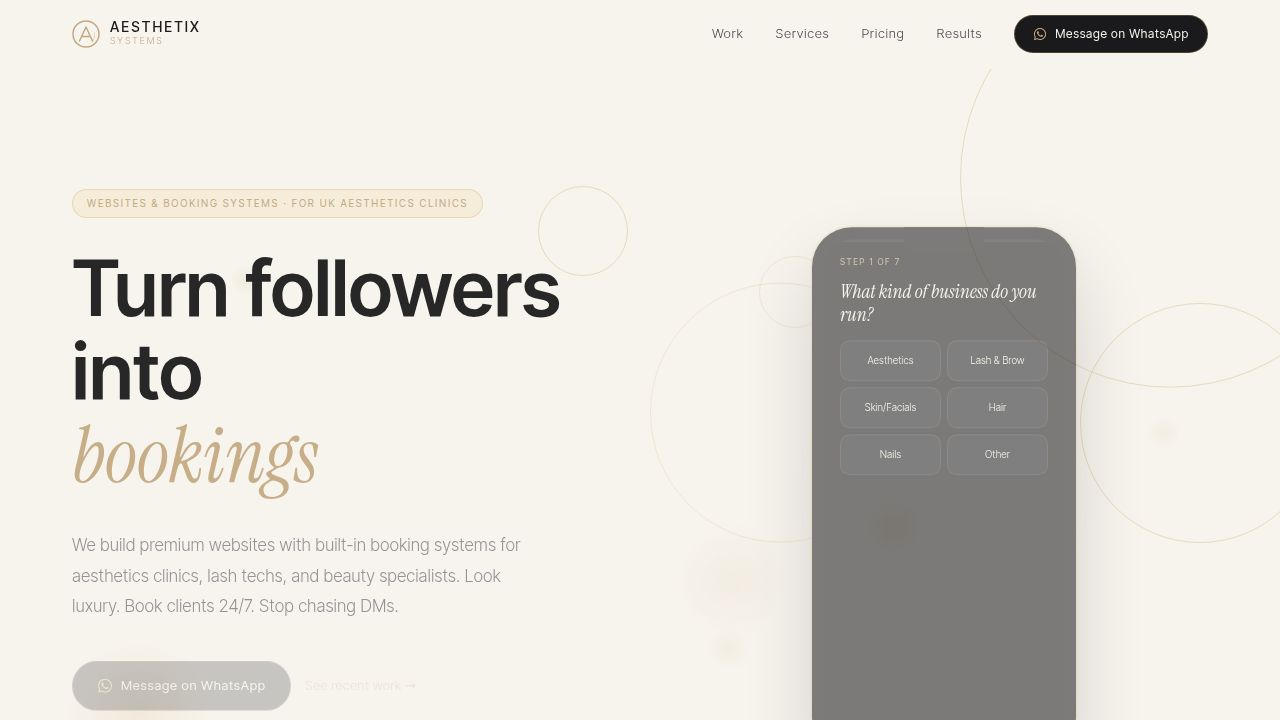
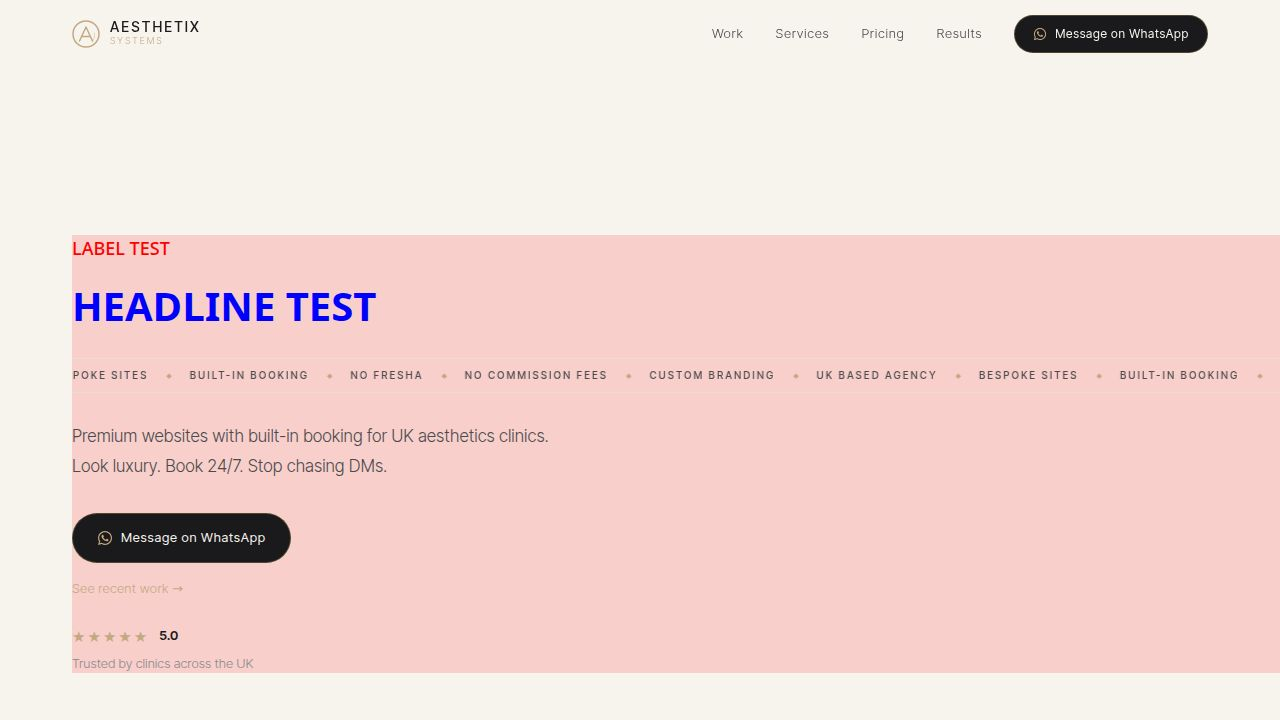
Update the hero section to fix mobile rendering and improve desktop layout
Refactor the Hero component to use separate mobile (block layout) and desktop (grid layout) rendering paths, and update CSS for improved styling and responsiveness.

Replit-Commit-Author: Agent
Replit-Commit-Session-Id: 2e30ccf7-1f1b-4fd5-824b-6b3b71900477
Replit-Commit-Checkpoint-Type: full_checkpoint
Replit-Commit-Event-Id: 9ea8dafe-753b-495b-a765-743d3a32aed4
Replit-Commit-Screenshot-Url: https://storage.googleapis.com/screenshot-production-us-central1/52372a35-586d-48e5-8519-69f121e412d8/2e30ccf7-1f1b-4fd5-824b-6b3b71900477/tItvzGl
Replit-Helium-Checkpoint-Created: true

diff --git a/artifacts/aesthetix/src/pages/Home.tsx b/artifacts/aesthetix/src/pages/Home.tsx
@@ -592,122 +592,136 @@ function HeroTicker() {
 
 function Hero() {
   const isMobile = useIsMobile();
-  return (
-    <section style={{ background: cream, padding: isMobile ? '28px 0 0' : '120px 0 80px', position: 'relative', overflow: 'hidden' }}>
-      {/* Floating circle vectors */}
-      {[
-        { size: 420, top: '-100px', right: '-100px', y: [0, -22, 0], dur: 9, delay: 0, fill: false },
-        { size: 240, top: '30%', right: '-40px', y: [0, -14, 0], dur: 12, delay: 1.8, fill: false },
-        { size: 150, bottom: '8%', left: '5%', y: [0, -18, 0], dur: 10, delay: 0.6, fill: true },
-        { size: 90, top: '15%', left: '42%', y: [0, -12, 0], dur: 7.5, delay: 2.2, fill: false },
-        { size: 56, top: '55%', right: '28%', y: [0, -10, 0], dur: 8.5, delay: 1.2, fill: true },
-        { size: 32, top: '25%', left: '18%', y: [0, -8, 0], dur: 6.5, delay: 3, fill: true },
-      ].map((c, i) => (
-        <motion.div
-          key={i}
-          animate={{ y: c.y }}
-          transition={{ duration: c.dur, delay: c.delay, repeat: Infinity, ease: 'easeInOut' }}
-          style={{
-            position: 'absolute',
-            width: c.size,
-            height: c.size,
-            borderRadius: '50%',
-            border: c.fill ? 'none' : `1.5px solid rgba(201,169,97,0.35)`,
-            background: c.fill ? `radial-gradient(circle, rgba(201,169,97,0.13) 0%, transparent 72%)` : 'transparent',
-            top: (c as any).top,
-            right: (c as any).right,
-            bottom: (c as any).bottom,
-            left: (c as any).left,
-            pointerEvents: 'none',
-            zIndex: -1,
-          }}
-        />
-      ))}
-      <div style={{ maxWidth: 1200, margin: '0 auto', padding: isMobile ? '0 24px' : '0 32px', display: 'grid', gridTemplateColumns: isMobile ? '1fr' : '1fr 1fr', gap: isMobile ? 20 : 80, alignItems: 'center', position: 'relative', zIndex: 1 }}>
-        {/* Left — Copy */}
-        <div style={{ textAlign: isMobile ? 'center' : 'left', display: 'flex', flexDirection: 'column', alignItems: isMobile ? 'center' : 'flex-start', position: 'relative', zIndex: 5 }}>
-          {/* Label */}
-          <div style={{ marginBottom: isMobile ? 20 : 28 }}>
-            <span style={{ fontFamily: BODY, fontWeight: 500, fontSize: isMobile ? 10 : 11, textTransform: 'uppercase' as const, letterSpacing: '0.22em', color: '#8A8A8E' }}>
-              Aesthetics · Lash · Beauty
-            </span>
-          </div>
-          {/* Headline */}
-          <h1 style={{ fontFamily: BODY, fontWeight: 700, fontSize: isMobile ? 'clamp(2.6rem, 10vw, 3.2rem)' : 'clamp(3rem,6vw,5rem)', lineHeight: 1.05, color: '#1A1A1C', margin: isMobile ? '0 0 28px' : '0 0 28px' }}>
+
+  const CIRCLE_BG = [
+    { size: 420, top: '-100px', right: '-100px', y: [0,-22,0], dur: 9,   delay: 0,   fill: false },
+    { size: 240, top: '30%',   right: '-40px',  y: [0,-14,0], dur: 12,  delay: 1.8, fill: false },
+    { size: 150, bottom: '8%', left: '5%',      y: [0,-18,0], dur: 10,  delay: 0.6, fill: true  },
+    { size: 90,  top: '15%',   left: '42%',     y: [0,-12,0], dur: 7.5, delay: 2.2, fill: false },
+    { size: 56,  top: '55%',   right: '28%',    y: [0,-10,0], dur: 8.5, delay: 1.2, fill: true  },
+    { size: 32,  top: '25%',   left: '18%',     y: [0,-8,0],  dur: 6.5, delay: 3,   fill: true  },
+  ] as const;
+
+  /* ── MOBILE layout — no grid, no flex wrapper, plain block ── */
+  if (isMobile) {
+    return (
+      <section style={{ background: cream, paddingTop: 28 }}>
+        <div style={{ padding: '0 24px', textAlign: 'center' }}>
+          <p style={{ fontFamily: BODY, fontWeight: 500, fontSize: 10, textTransform: 'uppercase' as const, letterSpacing: '0.22em', color: inkMute, marginBottom: 20 }}>
+            Aesthetics · Lash · Beauty
+          </p>
+          <h1 style={{ fontFamily: BODY, fontWeight: 700, fontSize: 'clamp(2.6rem, 10vw, 3.2rem)', lineHeight: 1.05, color: charcoal, marginBottom: 28 }}>
             Turn followers<br />
-            <span style={{ fontWeight: 700, color: 'rgba(26,26,28,0.28)' }}>into</span><br />
-            <em style={{ fontFamily: DISP, fontStyle: 'italic', fontWeight: 700, color: '#C4A882', lineHeight: 1.08 }}>bookings.</em>
+            <span style={{ color: 'rgba(26,26,28,0.28)' }}>into</span><br />
+            <em style={{ fontFamily: DISP, fontStyle: 'italic', color: gold, lineHeight: 1.08 }}>bookings.</em>
           </h1>
-          {/* Marquee ticker */}
-          <div style={{ width: '100%', marginBottom: isMobile ? 28 : 28 }}>
-            <HeroTicker />
-          </div>
-          {/* Body */}
-          <p style={{ fontFamily: BODY, fontWeight: 300, fontSize: isMobile ? 15 : 17, color: '#4A4A4E', lineHeight: 1.78, maxWidth: 480, margin: isMobile ? '0 0 32px' : '0 0 32px' }}>
+          <HeroTicker />
+          <p style={{ fontFamily: BODY, fontWeight: 300, fontSize: 15, color: inkSoft, lineHeight: 1.78, marginBottom: 32, marginTop: 28 }}>
             Premium websites with built-in booking for UK aesthetics clinics. Look luxury. Book 24/7. Stop chasing DMs.
           </p>
-          {/* CTAs */}
-          <div style={{ display: 'flex', flexDirection: 'column', gap: 16, alignItems: isMobile ? 'center' : 'flex-start', marginBottom: isMobile ? 32 : 28 }}>
+          <div style={{ display: 'flex', flexDirection: 'column', alignItems: 'center', gap: 16, marginBottom: 32 }}>
             <WaBtn large />
-            <a href="#work" className="gold-underline" style={{ fontFamily: BODY, fontWeight: 300, fontSize: 13, color: '#C4A882', textDecoration: 'none', letterSpacing: '0.02em' }}>
+            <a href="#work" className="gold-underline" style={{ fontFamily: BODY, fontWeight: 300, fontSize: 13, color: gold, textDecoration: 'none', letterSpacing: '0.02em' }}>
               See recent work →
             </a>
           </div>
-          {/* Stars trust row */}
-          <div style={{ display: 'flex', flexDirection: 'column', alignItems: isMobile ? 'center' : 'flex-start', gap: 8 }}>
+          <div style={{ display: 'flex', flexDirection: 'column', alignItems: 'center', gap: 8, marginBottom: 32 }}>
             <div style={{ display: 'flex', alignItems: 'center', gap: 10 }}>
-              <span style={{ color: '#C4A882', fontSize: 15, letterSpacing: 2, lineHeight: 1 }}>★★★★★</span>
-              <span style={{ fontFamily: BODY, fontWeight: 600, fontSize: 13, color: '#1A1A1C' }}>5.0</span>
+              <span style={{ color: gold, fontSize: 15, letterSpacing: 2, lineHeight: 1 }}>★★★★★</span>
+              <span style={{ fontFamily: BODY, fontWeight: 600, fontSize: 13, color: charcoal }}>5.0</span>
             </div>
-            <span style={{ fontFamily: BODY, fontWeight: 300, fontSize: 13, color: '#8A8A8E' }}>Trusted by clinics across the UK</span>
+            <span style={{ fontFamily: BODY, fontWeight: 300, fontSize: 13, color: inkMute }}>Trusted by clinics across the UK</span>
           </div>
         </div>
-        {/* Right — Phone (desktop only, not rendered at all on mobile) */}
-        {!isMobile && (
-          <motion.div initial={{ opacity: 0, y: 30 }} animate={{ opacity: 1, y: 0 }} transition={{ duration: 0.8, delay: 0.5 }}
-            style={{ display: 'flex', justifyContent: 'center', position: 'relative' }}>
-            {[
-              { size: 260, top: '10%',  left: '-30px',  y: [0,-18,0], dur: 10, delay: 0.3,  fill: false },
-              { size: 120, top: '55%',  left: '-10px',  y: [0,-12,0], dur: 8,  delay: 1.6,  fill: true  },
-              { size: 72,  top: '5%',   left: '15%',    y: [0,-10,0], dur: 7,  delay: 2.4,  fill: false },
-              { size: 44,  top: '75%',  left: '5%',     y: [0,-8,0],  dur: 9,  delay: 0.8,  fill: true  },
-              { size: 36,  top: '35%',  right: '5%',    y: [0,-7,0],  dur: 6.5,delay: 3.2,  fill: true  },
-            ].map((c, i) => (
-              <motion.div
-                key={`ph-${i}`}
-                animate={{ y: c.y }}
-                transition={{ duration: c.dur, delay: c.delay, repeat: Infinity, ease: 'easeInOut' }}
-                style={{
-                  position: 'absolute',
-                  width: c.size,
-                  height: c.size,
-                  borderRadius: '50%',
-                  border: c.fill ? 'none' : `1.5px solid rgba(201,169,97,0.32)`,
-                  background: c.fill ? `radial-gradient(circle, rgba(201,169,97,0.14) 0%, transparent 70%)` : 'transparent',
-                  top: (c as any).top,
-                  left: (c as any).left,
-                  right: (c as any).right,
-                  pointerEvents: 'none',
-                  zIndex: 0,
-                }}
-              />
-            ))}
-            <div style={{ position: 'relative', zIndex: 1 }}>
-              <PhoneLeadQuiz />
+        {/* Mobile quiz */}
+        <div style={{ padding: '0 24px', textAlign: 'center' }}>
+          <p style={{ fontFamily: BODY, fontWeight: 700, fontSize: 13, color: gold, letterSpacing: '0.06em', textTransform: 'uppercase' as const, marginBottom: 6 }}>Get your free quote in 60 seconds</p>
+          <p style={{ fontSize: 16, color: gold, lineHeight: 1, marginBottom: 12 }}>↓</p>
+          <PhoneLeadQuiz />
+        </div>
+      </section>
+    );
+  }
+
+  /* ── DESKTOP layout — two-column grid with floating circles ── */
+  return (
+    <section style={{
+      background: cream,
+      padding: '120px 0 80px',
+      position: 'relative',
+      overflow: 'hidden',
+    }}>
+      {CIRCLE_BG.map((c, i) => (
+        <motion.div key={`hc-${i}`}
+          animate={{ y: [...c.y] }}
+          transition={{ duration: c.dur, delay: c.delay, repeat: Infinity, ease: 'easeInOut' }}
+          style={{
+            position: 'absolute', width: c.size, height: c.size, borderRadius: '50%',
+            border: c.fill ? 'none' : `1.5px solid rgba(201,169,97,0.35)`,
+            background: c.fill ? `radial-gradient(circle,rgba(201,169,97,0.13) 0%,transparent 72%)` : 'transparent',
+            top: (c as any).top, right: (c as any).right, bottom: (c as any).bottom, left: (c as any).left,
+            pointerEvents: 'none', zIndex: 0,
+          }}
+        />
+      ))}
+      <div style={{
+        maxWidth: 1200, margin: '0 auto', padding: '0 32px',
+        display: 'grid', gridTemplateColumns: '1fr 1fr', gap: 80,
+        alignItems: 'center', position: 'relative', zIndex: 1,
+      }}>
+        <div style={{ display: 'flex', flexDirection: 'column', alignItems: 'flex-start', textAlign: 'left' }}>
+          <p style={{ fontFamily: BODY, fontWeight: 500, fontSize: 11, textTransform: 'uppercase' as const, letterSpacing: '0.22em', color: inkMute, marginBottom: 28 }}>
+            Aesthetics · Lash · Beauty
+          </p>
+          <h1 style={{ fontFamily: BODY, fontWeight: 700, fontSize: 'clamp(3rem,6vw,5rem)', lineHeight: 1.05, color: charcoal, marginBottom: 28 }}>
+            Turn followers<br />
+            <span style={{ color: 'rgba(26,26,28,0.28)' }}>into</span><br />
+            <em style={{ fontFamily: DISP, fontStyle: 'italic', color: gold, lineHeight: 1.08 }}>bookings.</em>
+          </h1>
+          <div style={{ width: '100%', marginBottom: 28 }}><HeroTicker /></div>
+          <p style={{ fontFamily: BODY, fontWeight: 300, fontSize: 17, color: inkSoft, lineHeight: 1.78, maxWidth: 480, marginBottom: 32 }}>
+            Premium websites with built-in booking for UK aesthetics clinics. Look luxury. Book 24/7. Stop chasing DMs.
+          </p>
+          <div style={{ display: 'flex', flexDirection: 'column', gap: 16, alignItems: 'flex-start', marginBottom: 28 }}>
+            <WaBtn large />
+            <a href="#work" className="gold-underline" style={{ fontFamily: BODY, fontWeight: 300, fontSize: 13, color: gold, textDecoration: 'none', letterSpacing: '0.02em' }}>
+              See recent work →
+            </a>
+          </div>
+          <div style={{ display: 'flex', flexDirection: 'column', alignItems: 'flex-start', gap: 8 }}>
+            <div style={{ display: 'flex', alignItems: 'center', gap: 10 }}>
+              <span style={{ color: gold, fontSize: 15, letterSpacing: 2, lineHeight: 1 }}>★★★★★</span>
+              <span style={{ fontFamily: BODY, fontWeight: 600, fontSize: 13, color: charcoal }}>5.0</span>
             </div>
-          </motion.div>
-        )}
+            <span style={{ fontFamily: BODY, fontWeight: 300, fontSize: 13, color: inkMute }}>Trusted by clinics across the UK</span>
+          </div>
+        </div>
+
+        <motion.div initial={{ opacity: 0, y: 30 }} animate={{ opacity: 1, y: 0 }}
+          transition={{ duration: 0.8, delay: 0.5 }}
+          style={{ display: 'flex', justifyContent: 'center', position: 'relative' }}>
+          {[
+            { size: 260, top: '10%', left: '-30px', y: [0,-18,0], dur: 10, delay: 0.3, fill: false },
+            { size: 120, top: '55%', left: '-10px', y: [0,-12,0], dur: 8,  delay: 1.6, fill: true  },
+            { size: 72,  top: '5%',  left: '15%',  y: [0,-10,0], dur: 7,  delay: 2.4, fill: false },
+            { size: 44,  top: '75%', left: '5%',   y: [0,-8,0],  dur: 9,  delay: 0.8, fill: true  },
+            { size: 36,  top: '35%', right: '5%',  y: [0,-7,0],  dur: 6.5,delay: 3.2, fill: true  },
+          ].map((c, i) => (
+            <motion.div key={`ph-${i}`}
+              animate={{ y: [...c.y] }}
+              transition={{ duration: c.dur, delay: c.delay, repeat: Infinity, ease: 'easeInOut' }}
+              style={{
+                position: 'absolute', width: c.size, height: c.size, borderRadius: '50%',
+                border: c.fill ? 'none' : `1.5px solid rgba(201,169,97,0.32)`,
+                background: c.fill ? `radial-gradient(circle,rgba(201,169,97,0.14) 0%,transparent 70%)` : 'transparent',
+                top: (c as any).top, left: (c as any).left, right: (c as any).right,
+                pointerEvents: 'none', zIndex: 0,
+              }}
+            />
+          ))}
+          <div style={{ position: 'relative', zIndex: 1 }}><PhoneLeadQuiz /></div>
+        </motion.div>
       </div>
-      {/* Mobile — quiz below the copy (plain div, no opacity animation) */}
-      {isMobile && (
-        <div style={{ marginTop: 32, display: 'flex', flexDirection: 'column', alignItems: 'center', gap: 6 }}>
-          <span style={{ fontFamily: BODY, fontWeight: 700, fontSize: 13, color: gold, letterSpacing: '0.06em', textTransform: 'uppercase' }}>Get your free quote in 60 seconds</span>
-          <span style={{ fontSize: 16, color: gold, lineHeight: 1 }}>↓</span>
-          <div style={{ width: '100%', paddingTop: 12 }}>
-            <PhoneLeadQuiz />
-          </div>
-        </div>
-      )}
     </section>
   );
 }

diff --git a/artifacts/aesthetix/src/index.css b/artifacts/aesthetix/src/index.css
@@ -118,11 +118,65 @@
   animation: marquee-scroll 26s linear infinite;
 }
 
-/* Hero text — always visible, immune to stacking issues */
-.hero-copy { position: relative; z-index: 10; isolation: isolate; }
-.hero-copy h1 { color: #1A1A1C !important; }
-.hero-copy p  { color: #4A4A4E !important; }
-.hero-copy span { color: inherit; }
-.hero-label { color: #8A8A8E !important; }
-.hero-into  { color: rgba(26,26,28,0.28) !important; }
-.hero-italic { color: #C4A882 !important; font-style: italic; }
+/* ── Hero CSS-driven responsive layout ── */
+.hero-section { background: #F7F4EE; padding: 120px 0 80px; position: relative; overflow: hidden; }
+@media (max-width: 768px) { .hero-section { padding: 28px 0 0; } }
+
+.hero-grid {
+  max-width: 1200px; margin: 0 auto; padding: 0 32px;
+  display: grid; grid-template-columns: 1fr 1fr; gap: 80px;
+  align-items: center; position: relative; z-index: 1;
+}
+@media (max-width: 768px) {
+  .hero-grid { padding: 0 24px; grid-template-columns: 1fr; gap: 20px; }
+}
+
+.hero-left {
+  display: flex; flex-direction: column; align-items: flex-start; text-align: left;
+  position: relative; z-index: 5;
+}
+@media (max-width: 768px) {
+  .hero-left { align-items: center; text-align: center; }
+}
+
+.hero-right-col { display: flex; justify-content: center; position: relative; }
+@media (max-width: 768px) { .hero-right-col { display: none; } }
+
+.hero-label-text {
+  font-family: 'Inter Tight', system-ui, sans-serif;
+  font-weight: 500; font-size: 11px;
+  text-transform: uppercase; letter-spacing: 0.22em;
+  color: #8A8A8E; margin: 0;
+}
+@media (max-width: 768px) { .hero-label-text { font-size: 10px; } }
+
+.hero-h1 {
+  font-family: 'Inter Tight', system-ui, sans-serif;
+  font-weight: 700; font-size: clamp(3rem, 6vw, 5rem);
+  line-height: 1.05; color: #1A1A1C; margin: 0 0 28px;
+}
+@media (max-width: 768px) { .hero-h1 { font-size: clamp(2.6rem, 10vw, 3.2rem); } }
+
+.hero-into { color: rgba(26,26,28,0.28); font-weight: 700; }
+.hero-italic { font-family: 'Instrument Serif', Georgia, serif; font-style: italic; font-weight: 700; color: #C4A882; line-height: 1.08; }
+
+.hero-body {
+  font-family: 'Inter Tight', system-ui, sans-serif;
+  font-weight: 300; font-size: 17px;
+  color: #4A4A4E; line-height: 1.78; max-width: 480px; margin: 0 0 32px;
+}
+@media (max-width: 768px) { .hero-body { font-size: 15px; } }
+
+.hero-ctas {
+  display: flex; flex-direction: column; gap: 16px;
+  align-items: flex-start; margin-bottom: 28px;
+}
+@media (max-width: 768px) { .hero-ctas { align-items: center; margin-bottom: 32px; } }
+
+.hero-stars {
+  display: flex; flex-direction: column; align-items: flex-start; gap: 8px;
+}
+@media (max-width: 768px) { .hero-stars { align-items: center; } }
+
+.hero-mobile-quiz { display: none; margin-top: 32px; flex-direction: column; align-items: center; gap: 6px; width: 100%; }
+@media (max-width: 768px) { .hero-mobile-quiz { display: flex; } }

diff --git a/artifacts/aesthetix/index.html b/artifacts/aesthetix/index.html
@@ -8,7 +8,7 @@
     <link rel="icon" type="image/svg+xml" href="/favicon.svg" />
     <link rel="preconnect" href="https://fonts.googleapis.com">
     <link rel="preconnect" href="https://fonts.gstatic.com" crossorigin>
-    <link href="https://fonts.googleapis.com/css2?family=Instrument+Serif:ital@0;1&family=Inter+Tight:wght@300;400;500;600&display=swap" rel="stylesheet">
+    <link href="https://fonts.googleapis.com/css2?family=Instrument+Serif:ital@0;1&family=Inter+Tight:ital,wght@0,300;0,400;0,500;0,600;0,700;1,300;1,400&display=swap" rel="stylesheet">
   </head>
   <body>
     <div id="root"></div>

diff --git a/.agents/memory/hero-mobile-grid-text.md b/.agents/memory/hero-mobile-grid-text.md
@@ -1,0 +1,22 @@
+---
+name: Hero mobile grid text bug
+description: Text inside a CSS grid container is invisible on mobile in the Replit preview (headless Chrome), while backgrounds and borders render fine. Text outside the grid renders correctly.
+---
+
+## The Rule
+On mobile in the Replit preview environment, text inside a `display: grid` container does not render (completely invisible). Backgrounds, borders, and gradients DO render. Text outside a grid renders normally.
+
+**Why:** The headless Chrome used by the screenshot tool (and seemingly the Replit preview iframe on mobile) has a rendering quirk where text in grid items loses visibility. The exact cause is unknown — possibly related to GPU compositing layers and how grid layout interacts with font rasterisation in this environment.
+
+**How to apply:** For any component that conditionally uses a grid on mobile, split into two separate `return` paths:
+- Mobile path: `if (isMobile) { return <section>...(plain block/flex layout)...</section>; }`
+- Desktop path: `return <section>...(grid layout)...</section>;`
+
+The mobile path should NOT use `display: grid`. Use plain block elements or `display: flex; flex-direction: column` instead. The parent section/div wrapping mobile content should have no `display: grid`.
+
+Confirmed workarounds that did NOT work:
+- `transform: translateZ(0)` on text elements
+- `will-change: transform` on text elements  
+- Removing `overflow: hidden`
+- Using `<span>` instead of `<p>` / `<h1>`
+- Inline styles vs CSS classes

diff --git a/.agents/memory/MEMORY.md b/.agents/memory/MEMORY.md
@@ -1,0 +1,1 @@
+- [Hero mobile grid text bug](hero-mobile-grid-text.md) — text inside CSS grid is invisible on mobile in Replit preview; use plain block layout instead.